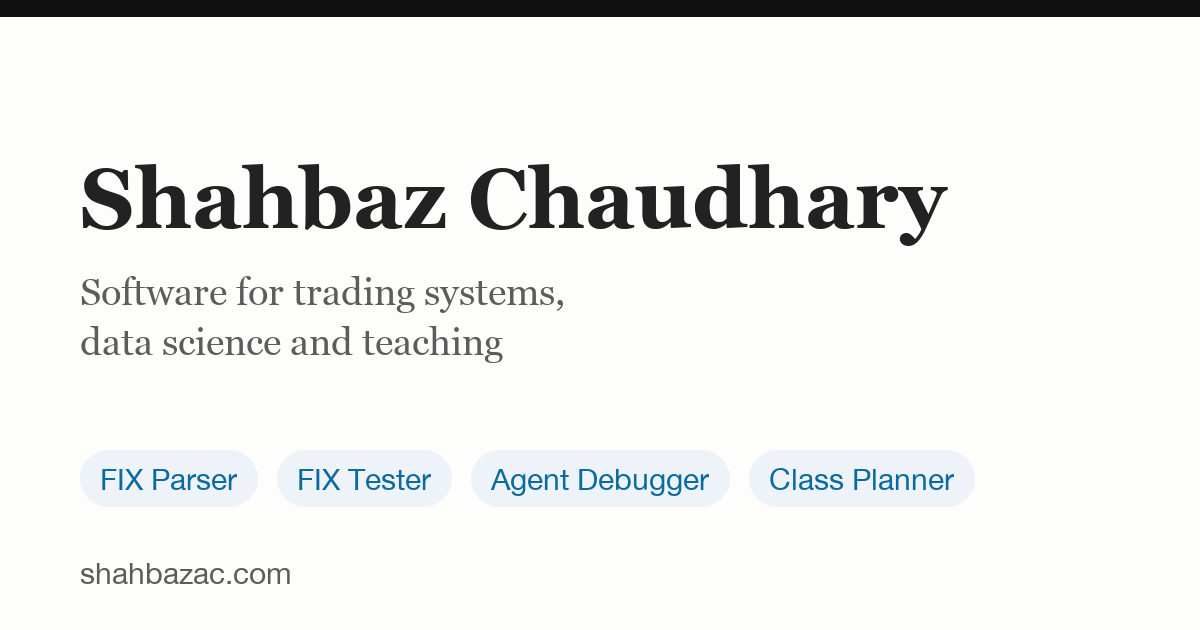
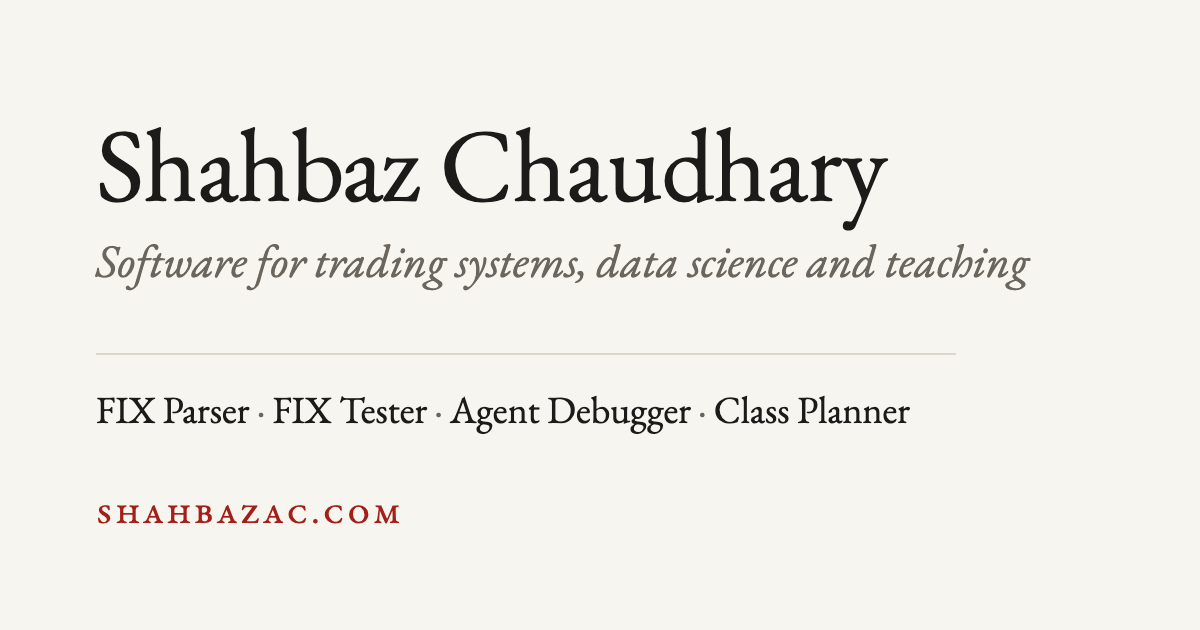
Share image redrawn in Margin colours

diff --git a/docs/design/og-image.html b/docs/design/og-image.html
@@ -1,0 +1,29 @@
+<!doctype html>
+<!-- Source of img/og-default.png, the link-preview image. Redraw it with headless Chrome
+     from the repo root (see docs/superpowers/plans/2026-11-09-margin-restyle.md, Task 7):
+     "/Applications/Google Chrome.app/Contents/MacOS/Google Chrome" --headless=new --hide-scrollbars \
+       --force-device-scale-factor=1 --window-size=1200,630 \
+       --screenshot="$PWD/img/og-default.png" "file://$PWD/docs/design/og-image.html" -->
+<html lang="en">
+<head>
+<meta charset="utf-8">
+<title>Share image</title>
+<style>
+  @font-face { font-family: "EB Garamond"; src: url("../../fonts/eb-garamond/eb-garamond-400.woff2") format("woff2"); font-weight: 400; font-style: normal; }
+  @font-face { font-family: "EB Garamond"; src: url("../../fonts/eb-garamond/eb-garamond-400-italic.woff2") format("woff2"); font-weight: 400; font-style: italic; }
+  html, body { margin: 0; width: 1200px; height: 630px; overflow: hidden; background: #f7f5ef; }
+  body { box-sizing: border-box; padding: 112px 96px 0; color: #1c1b19; font-family: "EB Garamond", Georgia, serif; font-variant-numeric: oldstyle-nums; }
+  h1 { font-weight: 400; font-size: 104px; line-height: 1; margin: 0; letter-spacing: -.005em; }
+  .sub { font-style: italic; font-size: 46px; line-height: 1.2; color: #6b665d; margin: 18px 0 0; }
+  .apps { font-size: 38px; margin: 64px 0 0; padding-top: 30px; border-top: 2px solid #dcd7cc; width: 860px; }
+  .apps span + span::before { content: " · "; color: #6b665d; }
+  .site { position: absolute; left: 96px; bottom: 58px; font-size: 38px; color: #a3201a; font-variant-caps: all-small-caps; letter-spacing: .08em; }
+</style>
+</head>
+<body>
+  <h1>Shahbaz Chaudhary</h1>
+  <p class="sub">Software for trading systems, data science and teaching</p>
+  <p class="apps"><span>FIX Parser</span><span>FIX Tester</span><span>Agent Debugger</span><span>Class Planner</span></p>
+  <p class="site">shahbazac.com</p>
+</body>
+</html>
